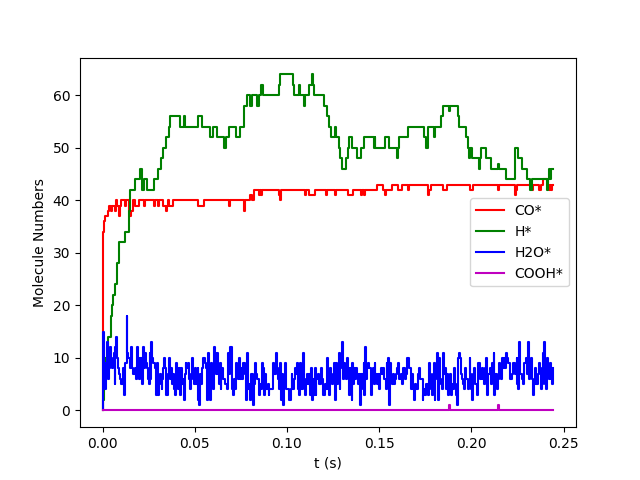
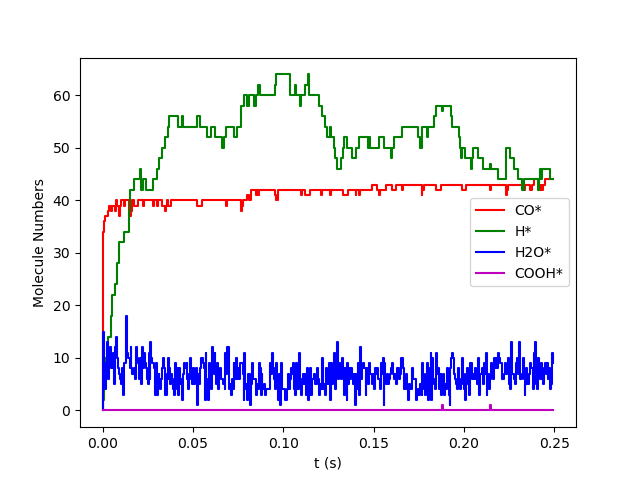
Example WaterGasShiftOnPt11 updated -- SO203

diff --git a/examples/WaterGasShiftOnPt111/WaterGasShiftOnPt111.py b/examples/WaterGasShiftOnPt111/WaterGasShiftOnPt111.py
@@ -185,8 +185,7 @@ sett.process_statistics = ('time', 5.e-4)
 sett.species_numbers = ('time', 5.e-4)
 sett.event_report = 'off'
 sett.max_steps = 'infinity'
-sett.max_time = 250.0
-sett.wall_time = 30
+sett.max_time = 0.25
 
 job = pz.ZacrosJob( settings=sett, lattice=latt, mechanism=mech, cluster_expansion=myClusterExpansion )
 

diff --git a/doc/source/examples/WaterGasShiftOnPt111.rst b/doc/source/examples/WaterGasShiftOnPt111.rst
@@ -11,7 +11,7 @@ If everything is working well, you should get the following information in the s
   :linenos:
 
   $ amspython WaterGasShiftOnPt111.py
-  [14.02|16:30:47] PLAMS working folder: /home/user/pyzacros/examples/WaterGasShiftOnPt111/plams_workdir
+  PLAMS working folder: /home/user/pyzacros/examples/WaterGasShiftOnPt111/plams_workdir
   ---------------------------------------------------------------------
   simulation_input.dat
   ---------------------------------------------------------------------
@@ -24,8 +24,7 @@ If everything is working well, you should get the following information in the s
   species_numbers           on time       0.0005
   event_report      off
   max_steps         infinity
-  max_time          250.0
-  wall_time         30
+  max_time          0.25
 
   n_gas_species    4
   gas_specs_names              CO           H2          H2O          CO2
@@ -282,11 +281,11 @@ If everything is working well, you should get the following information in the s
   end_step
 
   end_mechanism
-  [14.02|16:30:47] JOB plamsjob STARTED
-  [14.02|16:30:47] JOB plamsjob RUNNING
-  [14.02|16:31:17] JOB plamsjob FINISHED
-  [14.02|16:31:17] JOB plamsjob SUCCESSFUL
-  [14.02|16:31:27] PLAMS run finished. Goodbye
+  [08.02|15:34:32] JOB plamsjob STARTED
+  [08.02|15:34:32] JOB plamsjob RUNNING
+  [08.02|15:34:57] JOB plamsjob FINISHED
+  [08.02|15:34:57] JOB plamsjob SUCCESSFUL
+  [08.02|15:35:10] PLAMS run finished. Goodbye
 
 .. figure:: ../../images/example_WaterGasShiftOnPt111.png
    :scale: 100 %
